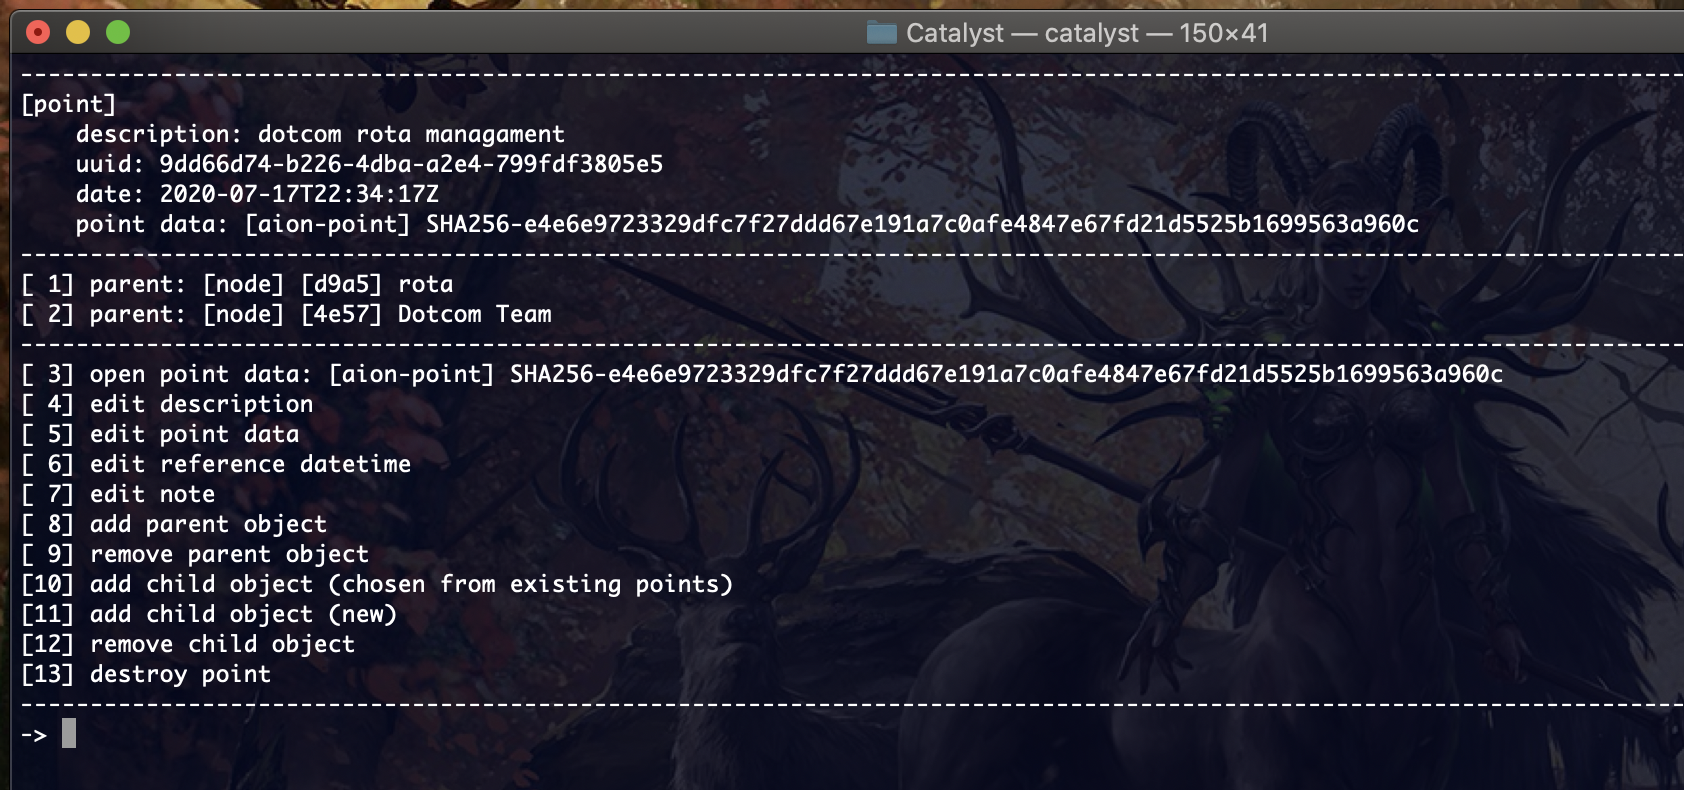
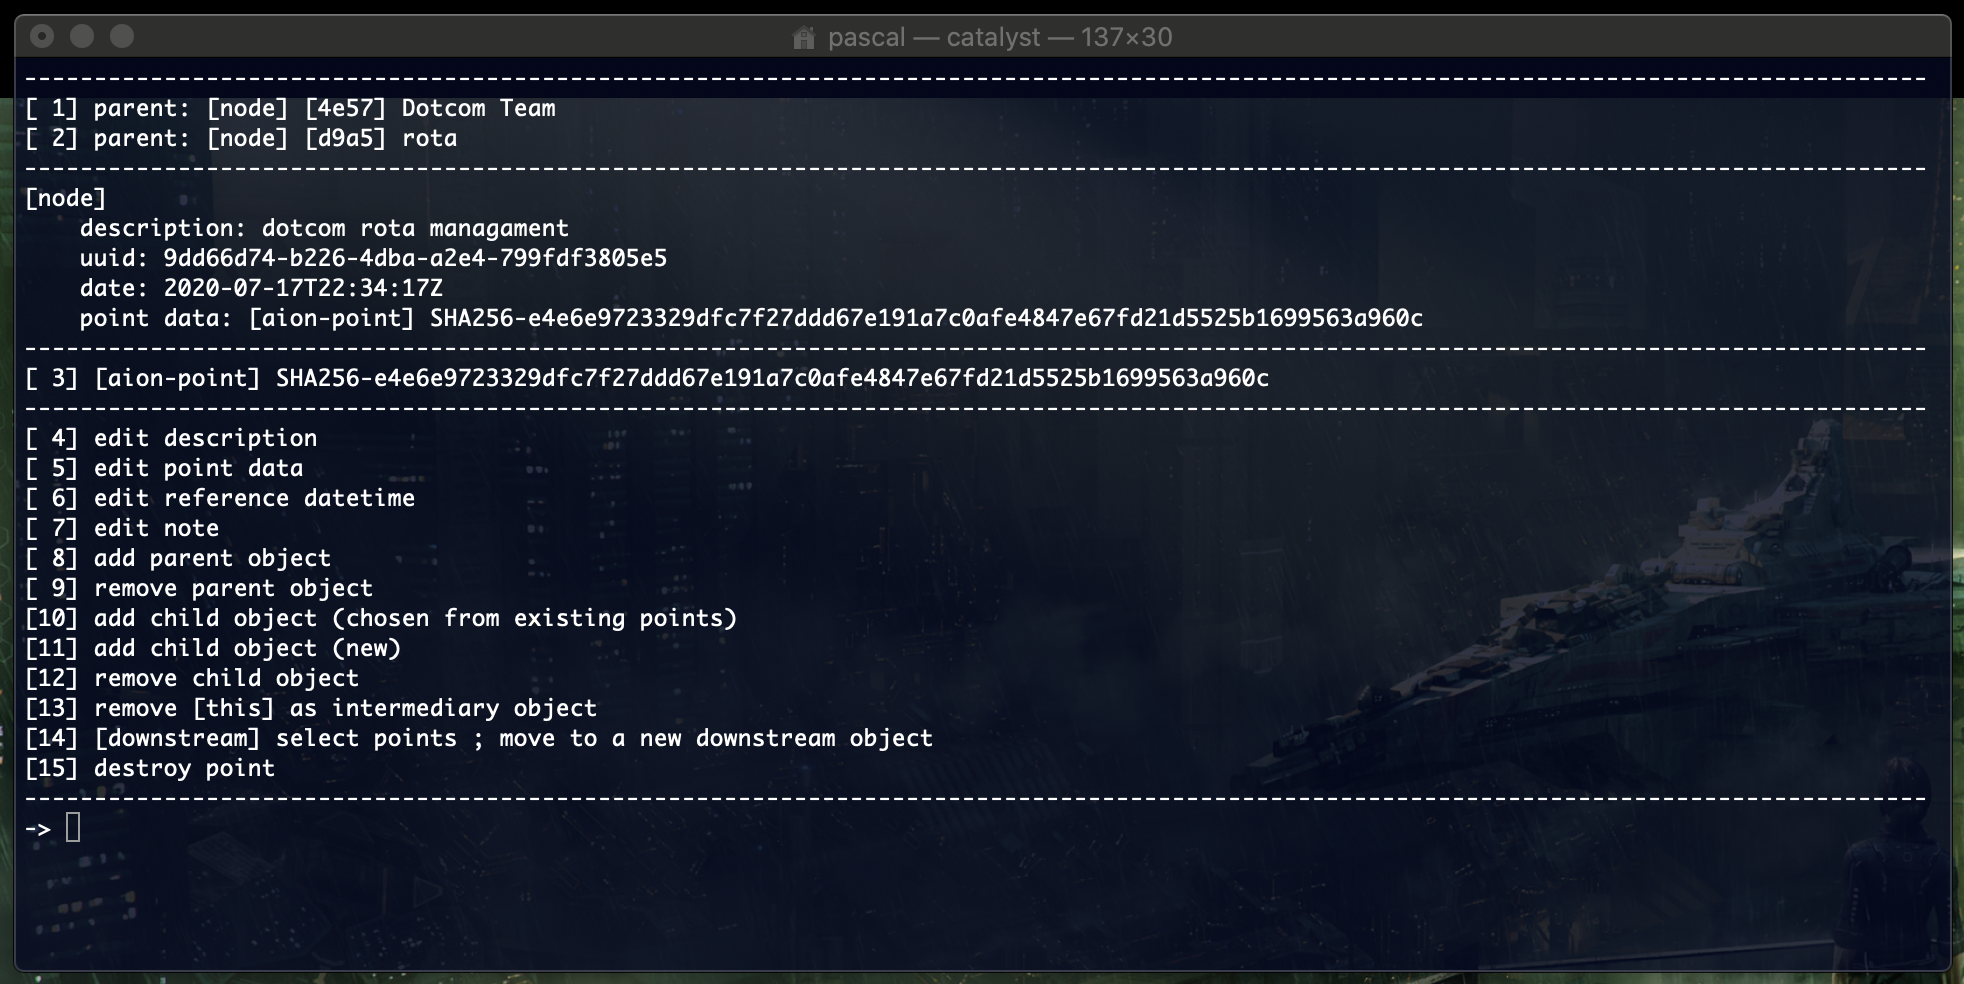
Losing NSDataType2 3/3

diff --git a/documentation/DocNetDatamodel.md b/documentation/DocNetDatamodel.md
@@ -27,7 +27,7 @@ Another way to represent that mini network is like this:
 
 ![](images/1595833644.png)
 
-The above graph is how we mentally intuitively represent the nodes and the arrows. 
+This last picture is how we mentally intuitively represent the nodes and the arrows. 
 
 Note that DocNet makes no attempt whatsoever at capturing the different kinds of arrows. That difference exists in the mind of whomever navigates the network (and varies from one person to another). From DocNet's point of view there is one type of arrow.
 
@@ -35,5 +35,5 @@ The DocNet user interface remains faithful to that view and when focusing on a n
 
 ![](images/1595832406.png) 
 
-See the [Points](DocNetNodes.md) documentation for more details about this screenshot, but for the moment we are focusing on a node called "dotcom rota management", which have two parents, one called "rota" and the other one called "Dotcom Team". The data carried by this node is a text file where I manage the rota system of the dotcom team. Also note that your display of this node might be slightly different (less operations avalaible to some users).
+See the [Nodes](DocNetNodes.md) documentation for more details about this screenshot, but for the moment we are focusing on a node called "dotcom rota management", which have two parents, one called "rota" and the other one called "Dotcom Team". The data carried by this node is a text file where I manage the rota system of the dotcom team. Also note that your display of this node might be slightly different (less operations avalaible to some users).
 

diff --git a/documentation/DocNet.md b/documentation/DocNet.md
@@ -13,8 +13,8 @@ In this documentation:
 
 DocNet...
 
-- Was born as a terminal application (a purposeful choice by its author, Pascal), but will acquire other interfaces as time goes on. 
-- Is written in Ruby (because the program is a child of, Catalyst, is written in Ruby), but Catalyst (and therefore DocNet) is going to be rewritten in Go.
+- Was born as a terminal application (a purposeful choice by its author, Pascal), but will acquire other user interfaces as time goes on. 
+- Is written in Ruby (because the program it is a subset of, Catalyst, is written in Ruby). But note that Catalyst (and therefore DocNet) is going to be rewritten in Go.
 - Has an interesting data model. The reader is invited to get familiar with it to better understand the user interface. See [DocNet Datamodel](DocNetDatamodel.md).
 - Makes no assumption about the documentation files. Text, pictures, .md files, Word documents, anything goes... So you do not need to convert your existing files to anything. Also, if you already have documentation written in Google Docs, just link to that, in this case DocNet acts as an index.
 

diff --git a/documentation/DocNetNodes.md b/documentation/DocNetNodes.md
@@ -1,3 +1,3 @@
-## DocNet: The Data Points
+## DocNet: The Nodes
 
 
